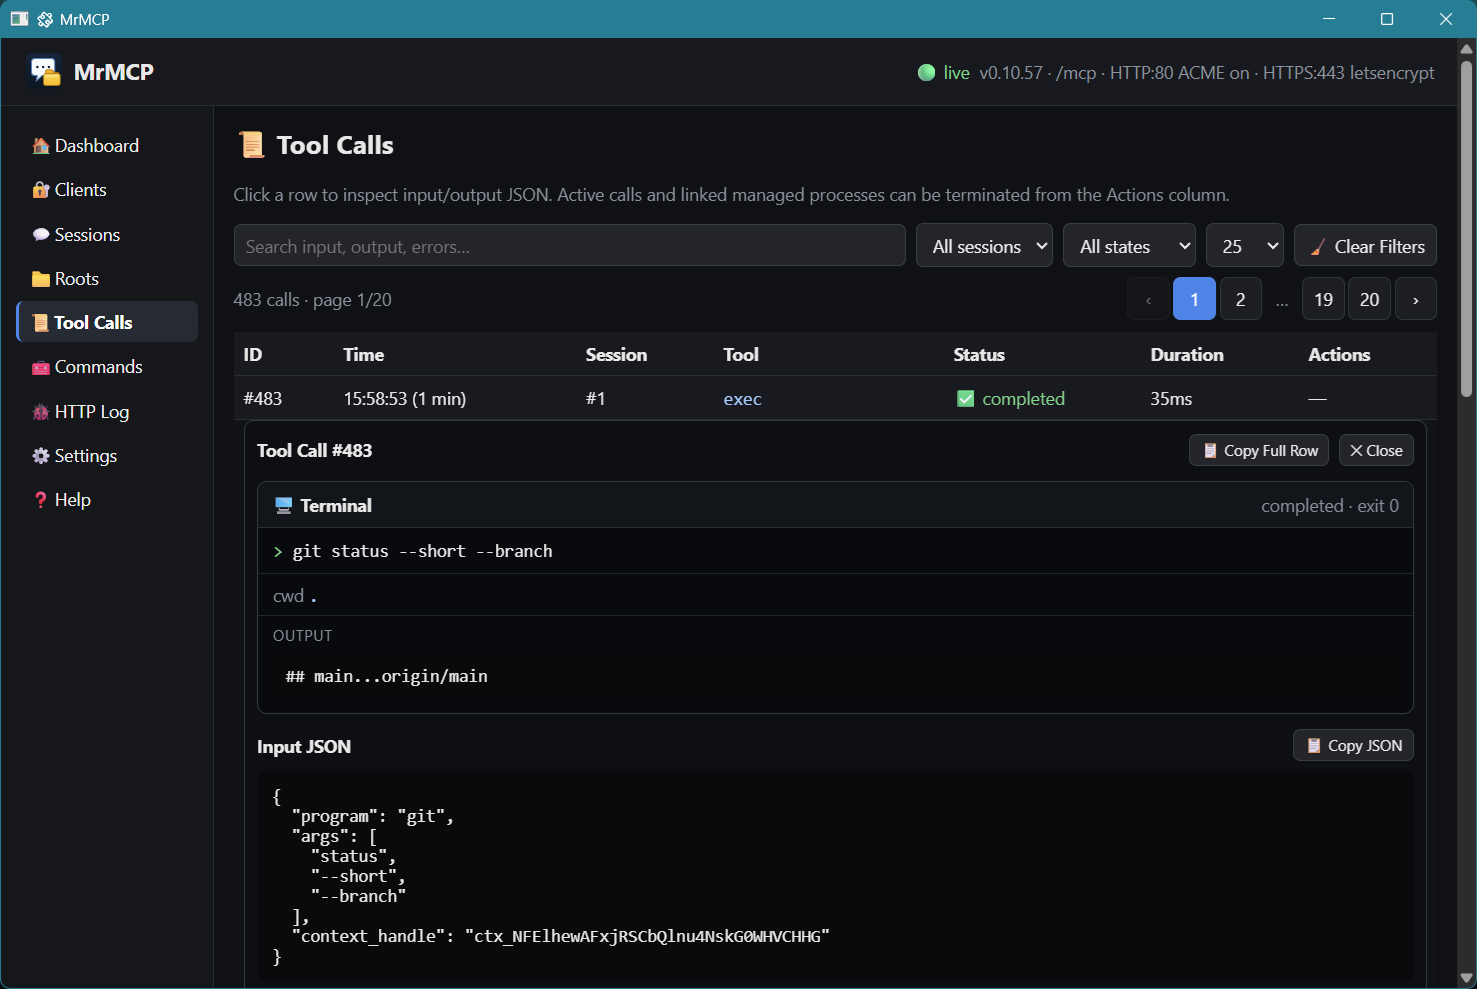
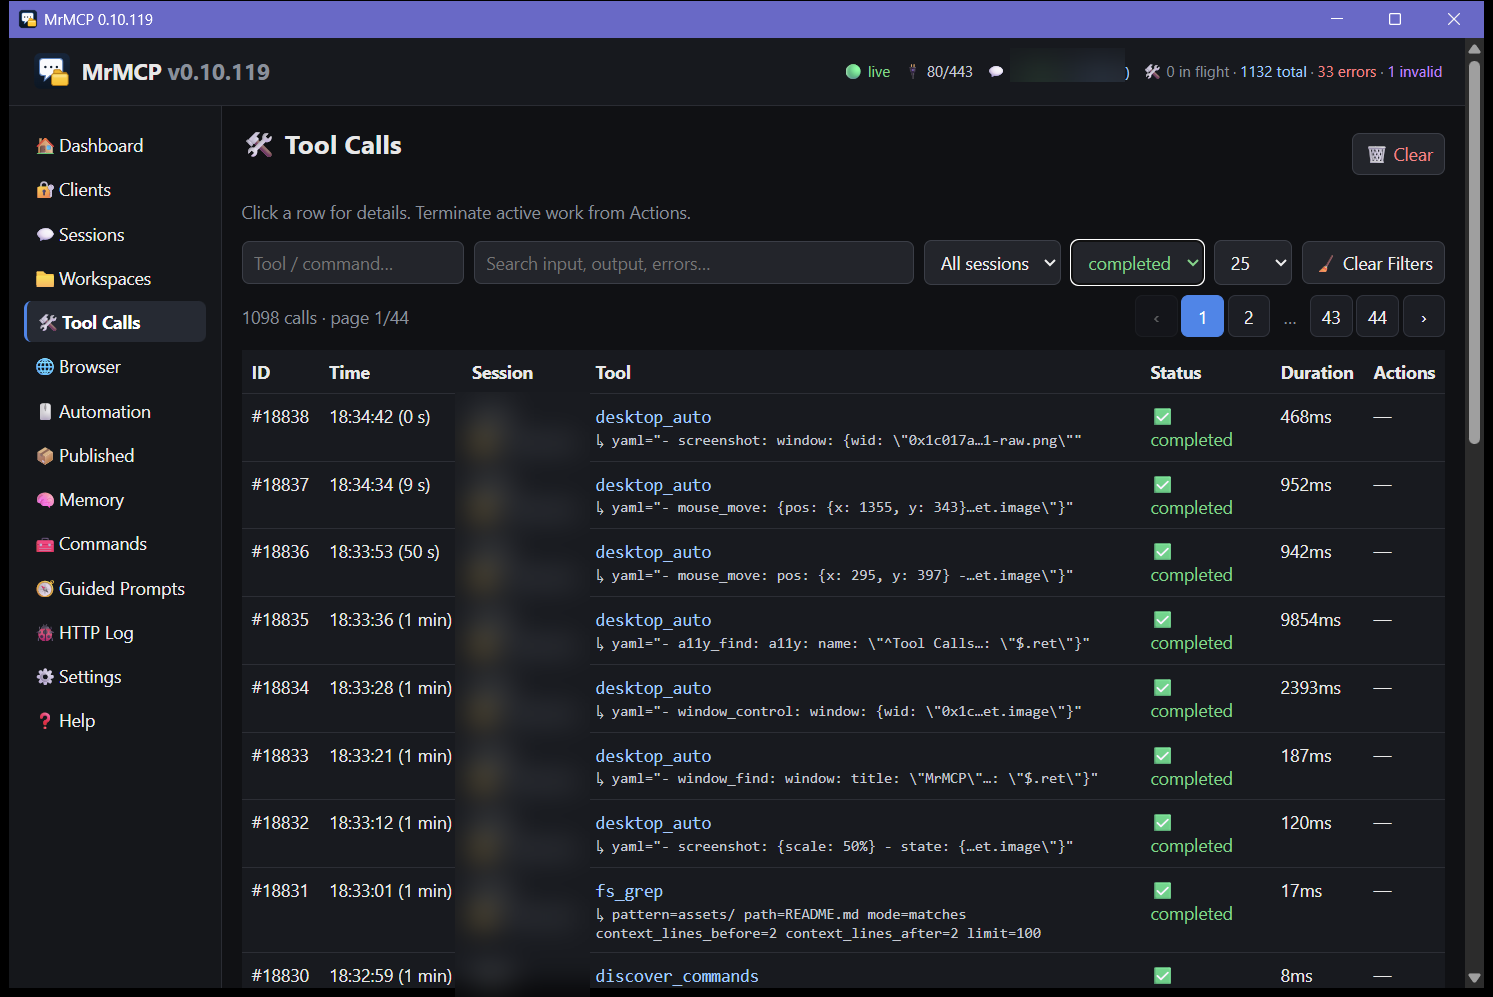
0.10.120: refresh Tool Calls documentation screenshot

diff --git a/mrmcp.js b/mrmcp.js
@@ -1,5 +1,5 @@
 /*
-MrMCP 0.10.117 — Add richer Tool Call inspection, Telegram Bot requests, and typed scoped memory.
+MrMCP 0.10.120 — Refresh the Tool Calls documentation screenshot.
 Runtime data: .mrmcp beside source/portable executables; macOS .app data lives under ~/Library/Application Support/MrMCP/.
 Run desktop GUI: deno run -A --unstable-ffi mrmcp.js
 Run headless backend: deno run -A mrmcp.js --backend
@@ -95,7 +95,7 @@ const READ_TOOLS = new Set([
 const MCP_MODERN_PROTOCOL = "2026-07-28";
 const MCP_PROTOCOLS = [MCP_MODERN_PROTOCOL];
 const MCP_DEFAULT_PROTOCOL = MCP_MODERN_PROTOCOL;
-const VERSION = "0.10.119";
+const VERSION = "0.10.120";
 const OAUTH_ACCESS_TOKEN_TTL_SECONDS = 365 * 24 * 60 * 60;
 const CONTEXT_TTL_MS = 30 * 24 * 60 * 60 * 1000;
 const SESSION_ACTIVE_MS = 10 * 60 * 1000, DASHBOARD_TOOL_CALL_TTL_MS = 5000;

diff --git a/CHANGELOG.md b/CHANGELOG.md
@@ -1,5 +1,9 @@
 # Changelog
 
+## 0.10.120
+
+- Refreshed the README Tool Calls screenshot with the current interface while masking sensitive data in the captured log details.
+
 ## 0.10.119
 
 - Decoupled desktop GUI Replay from MCP Tool Calls. Browser CDP replay and Automation AAF replay now read the selected historical input only as a source, then execute directly through the shared low-level CDP/Auto.js engines without `callTool()`/`executeTool()`, Tool Call logging, descriptor snapshots, Tool Call counters/notifications, `tool_call_content`, or any new database persistence. Replay is therefore a local operator action, not a new Tool Call.

diff --git a/AGENTS.md b/AGENTS.md
@@ -2,7 +2,7 @@
 
 ## Current release and files
 
-MrMCP 0.10.117 consists of seven root project files, one GitHub Actions workflow and one versioned asset directory:
+MrMCP 0.10.120 consists of seven root project files, one GitHub Actions workflow and one versioned asset directory:
 
 - `mrmcp.js` — Deno backend, MCP `2026-07-28`, OAuth/Basic authentication, SQLite, local Tauriless UI and desktop launcher.
 - `commands.yaml` — versioned editable extra-command catalog; keep it in the repository root, never under `assets/`.

diff --git a/README.md b/README.md
@@ -1,6 +1,6 @@
 <p align="center"><img src="./assets/mrmcp-logo.png" alt="MrMCP" width="180"></p>
 
-# MrMCP 0.10.117
+# MrMCP 0.10.120
 
 MrMCP is a stateless Model Context Protocol server implemented in Deno. It exposes one authenticated `/mcp` endpoint, Workspace-scoped Sessions, filesystem and process tools, OAuth/Basic authentication, TLS automation, and a local Tauriless administration UI.
 
